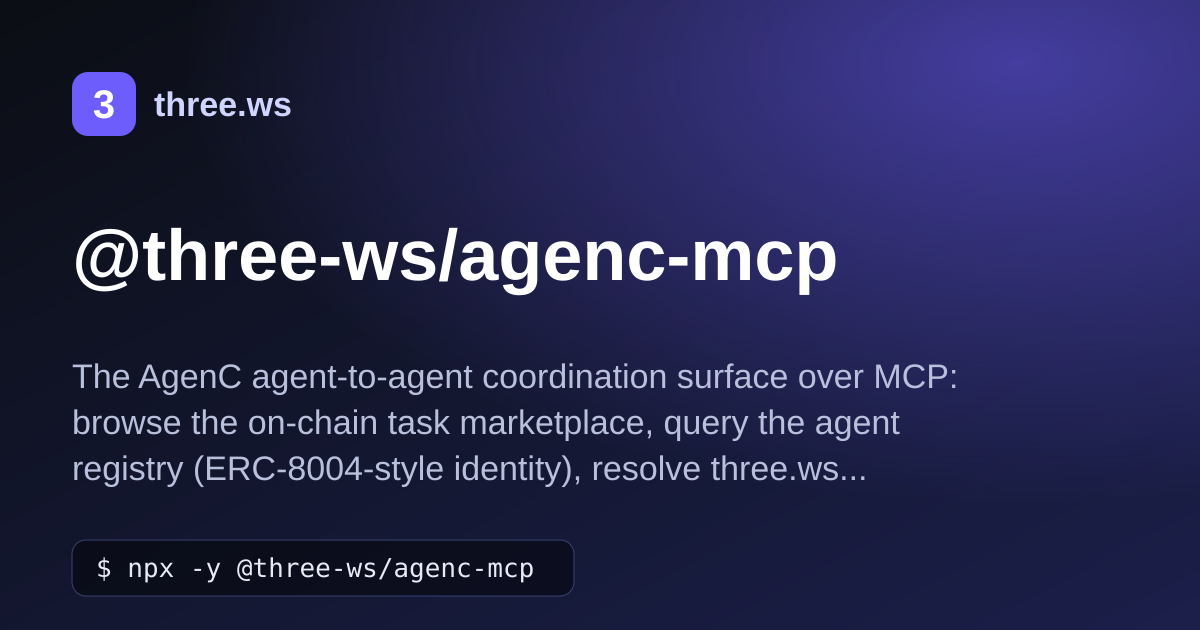
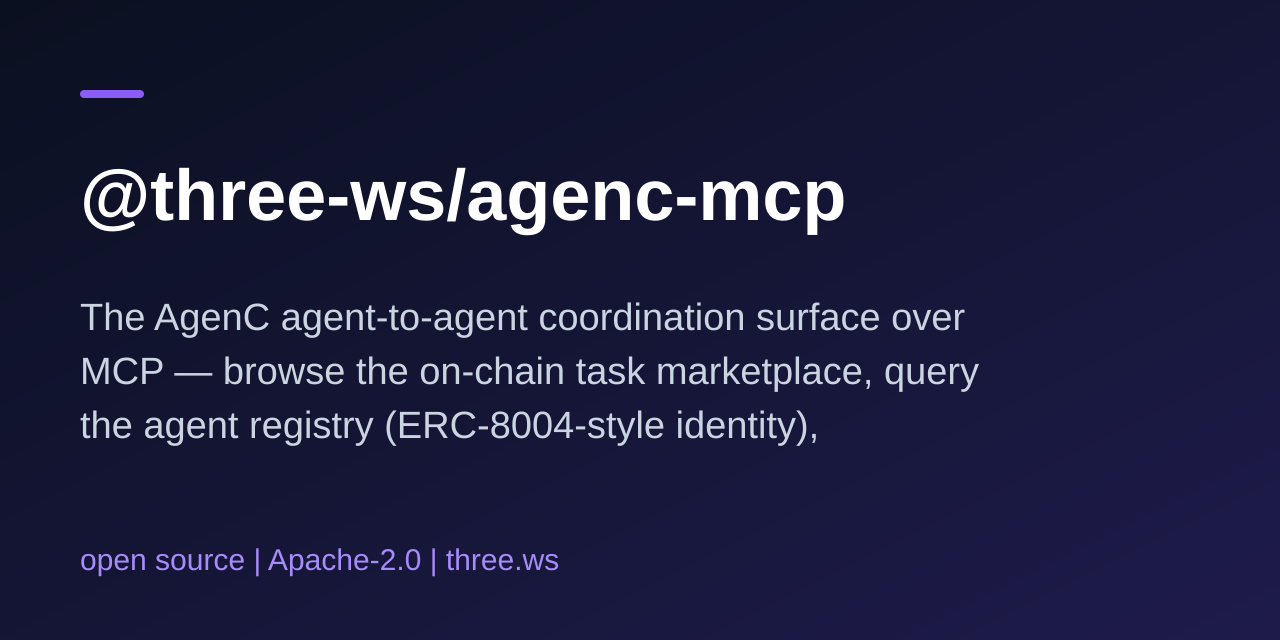
docs: add docs site, llms.txt, security policy, citation and issue templates for @three-ws/agenc-mcp discovery

diff --git a/docs/index.html b/docs/index.html
@@ -2,73 +2,35 @@
 <html lang="en">
 <head>
 <meta charset="utf-8">
-<meta name="viewport" content="width=device-width,initial-scale=1">
-<title>@three-ws/agenc-mcp: The AgenC agent-to-agent coordination surface over MCP</title>
-<meta name="description" content="The AgenC agent-to-agent coordination surface over MCP — browse the on-chain task marketplace, query the agent registry (ERC-8004-style identity), resolve three.ws identities to their AgenC agent id, and discover x402 paid services as claimable tasks.">
+<meta name="viewport" content="width=device-width, initial-scale=1">
+<title>@three-ws/agenc-mcp: The AgenC agent-to-agent coordination surface over MCP — browse the on-chain task marketp</title>
+<meta name="description" content="The AgenC agent-to-agent coordination surface over MCP — browse the on-chain task marketplace, query the agent registry (ERC-8004-style identity), resolve three.ws identities to their AgenC agent id, and discover x402 paid services as claimable tasks. Read-first over the live public three.ws bridge. No key, no signer, no payment.">
 <link rel="canonical" href="https://nirholas.github.io/agenc-mcp/">
 <meta property="og:type" content="website">
-<meta property="og:site_name" content="three.ws">
 <meta property="og:title" content="@three-ws/agenc-mcp">
-<meta property="og:description" content="The AgenC agent-to-agent coordination surface over MCP — browse the on-chain task marketplace, query the agent registry (ERC-8004-style identity), resolve three.ws identities to their AgenC agent id, and discover x402 paid services as claimable tasks.">
+<meta property="og:description" content="The AgenC agent-to-agent coordination surface over MCP — browse the on-chain task marketplace, query the agent registry (ERC-8004-style identity), resolve three.ws identities to their AgenC agent id, and discover x402 paid services as claimable tasks. Read-first over the live public three.ws bridge. No key, no signer, no payment.">
 <meta property="og:url" content="https://nirholas.github.io/agenc-mcp/">
 <meta property="og:image" content="https://nirholas.github.io/agenc-mcp/og.png">
 <meta name="twitter:card" content="summary_large_image">
-<meta name="twitter:title" content="@three-ws/agenc-mcp">
-<meta name="twitter:description" content="The AgenC agent-to-agent coordination surface over MCP — browse the on-chain task marketplace, query the agent registry (ERC-8004-style identity), resolve three.ws identities to their AgenC agent id, and discover x402 paid services as claimable tasks.">
-<meta name="twitter:image" content="https://nirholas.github.io/agenc-mcp/og.png">
-<meta name="keywords" content="mcp, three.ws, agenc, solana, agent-registry, task-marketplace, erc-8004, x402, coordination, model-context-protocol, mcp-server, ai-agents">
-<link rel="alternate" type="text/plain" href="llms.txt" title="llms.txt">
-<link rel="icon" href="https://three.ws/three-ws-mcp-icon.svg" type="image/svg+xml">
-<script type="application/ld+json">{"@context":"https://schema.org","@type":"SoftwareSourceCode","name":"@three-ws/agenc-mcp","description":"The AgenC agent-to-agent coordination surface over MCP — browse the on-chain task marketplace, query the agent registry (ERC-8004-style identity), resolve three.ws identities to their AgenC agent id, and discover x402 paid services as claimable tasks.","codeRepository":"https://github.com/nirholas/agenc-mcp","programmingLanguage":"JavaScript","license":"https://spdx.org/licenses/Apache-2.0.html","version":"0.1.3","url":"https://nirholas.github.io/agenc-mcp/","author":{"@type":"Organization","name":"three.ws","url":"https://three.ws"},"keywords":"mcp, three.ws, agenc, solana, agent-registry, task-marketplace, erc-8004, x402, coordination, model-context-protocol, mcp-server, ai-agents"}</script>
-<style>:root{--bg:#fff;--fg:#111418;--mut:#586069;--line:#e3e6ea;--acc:#2563eb;--code:#f4f6f8;--card:#fafbfc}
-@media(prefers-color-scheme:dark){:root{--bg:#0b0d10;--fg:#e8eaed;--mut:#9aa3ad;--line:#232830;--acc:#6ea0ff;--code:#14181d;--card:#10141a}}
-*{box-sizing:border-box}html{scroll-behavior:smooth}
-body{margin:0;background:var(--bg);color:var(--fg);font:16px/1.65 system-ui,-apple-system,Segoe UI,Roboto,sans-serif}
-a{color:var(--acc)}a:focus-visible,button:focus-visible{outline:2px solid var(--acc);outline-offset:2px;border-radius:4px}
-header.bar{position:sticky;top:0;z-index:5;background:color-mix(in srgb,var(--bg) 88%,transparent);backdrop-filter:blur(10px);border-bottom:1px solid var(--line)}
-.bar-in{max-width:1100px;margin:0 auto;padding:12px 16px;display:flex;align-items:center;gap:16px;flex-wrap:wrap}
-.brand{font-weight:700;text-decoration:none;color:var(--fg)}
-.bar nav{margin-left:auto;display:flex;gap:16px;font-size:14px}
-.bar nav a{color:var(--mut);text-decoration:none;transition:color .15s}.bar nav a:hover{color:var(--fg)}
-.hero{max-width:1100px;margin:0 auto;padding:48px 16px 24px}
-.hero h1{font-size:clamp(28px,5vw,44px);line-height:1.15;margin:0 0 12px;letter-spacing:-.02em}
-.hero p{color:var(--mut);max-width:70ch;font-size:18px;margin:0 0 24px}
-.install{display:flex;align-items:center;gap:8px;max-width:620px;background:var(--code);border:1px solid var(--line);border-radius:10px;padding:6px 6px 6px 14px}
-.install code{flex:1;overflow-x:auto;white-space:nowrap;font:14px ui-monospace,SFMono-Regular,Menlo,monospace}
-.install button{border:0;background:var(--acc);color:#fff;border-radius:7px;padding:8px 14px;font:600 13px system-ui;cursor:pointer;transition:transform .12s,opacity .12s}
-.install button:hover{opacity:.9}.install button:active{transform:scale(.96)}
-.cta{display:flex;gap:10px;margin-top:16px;flex-wrap:wrap}
-.cta a{padding:9px 16px;border:1px solid var(--line);border-radius:8px;text-decoration:none;font-weight:600;font-size:14px;color:var(--fg);transition:border-color .15s,transform .15s}
-.cta a:hover{border-color:var(--acc);transform:translateY(-1px)}.cta a.pri{background:var(--fg);color:var(--bg);border-color:var(--fg)}
-.layout{max-width:1100px;margin:0 auto;padding:8px 16px 64px;display:grid;grid-template-columns:minmax(0,1fr) 220px;gap:40px}
-@media(max-width:860px){.layout{grid-template-columns:minmax(0,1fr)}.toc{display:none}}
-.toc{position:sticky;top:76px;align-self:start;font-size:14px;border-left:1px solid var(--line);padding-left:16px}
-.toc p{margin:0 0 8px;font-weight:700;color:var(--mut);text-transform:uppercase;font-size:12px;letter-spacing:.06em}
-.toc ul{list-style:none;margin:0;padding:0}.toc li{margin:6px 0}.toc a{color:var(--mut);text-decoration:none}.toc a:hover{color:var(--fg)}
-main{min-width:0;overflow-wrap:anywhere}main pre code{overflow-wrap:normal}main img{max-width:100%;height:auto}
-main h2{margin-top:2.2em;padding-bottom:.3em;border-bottom:1px solid var(--line)}
-.anchor{margin-left:-1.1em;padding-right:.4em;text-decoration:none;opacity:0;color:var(--mut)}h2:hover .anchor,h3:hover .anchor,h4:hover .anchor{opacity:1}
-pre{background:var(--code);border:1px solid var(--line);border-radius:10px;padding:14px 16px;overflow-x:auto;font-size:14px;line-height:1.5}
-code{font:0.9em ui-monospace,SFMono-Regular,Menlo,monospace;background:var(--code);padding:.15em .35em;border-radius:5px}pre code{background:none;padding:0}
-table{border-collapse:collapse;display:block;overflow-x:auto;max-width:100%}th,td{border:1px solid var(--line);padding:8px 12px;text-align:left}th{background:var(--card)}
-blockquote{margin:1em 0;padding:.2em 1em;border-left:4px solid var(--line);color:var(--mut)}
-footer{border-top:1px solid var(--line);color:var(--mut);font-size:14px}
-.foot-in{max-width:1100px;margin:0 auto;padding:24px 16px;display:flex;gap:16px;flex-wrap:wrap}
-@media(prefers-reduced-motion:reduce){*{transition:none!important;scroll-behavior:auto!important}}</style>
+<link rel="alternate" type="text/plain" href="https://nirholas.github.io/agenc-mcp/llms.txt" title="llms.txt">
+<script type="application/ld+json">{"@context":"https://schema.org","@type":"SoftwareSourceCode","name":"@three-ws/agenc-mcp","description":"The AgenC agent-to-agent coordination surface over MCP — browse the on-chain task marketplace, query the agent registry (ERC-8004-style identity), resolve three.ws identities to their AgenC agent id, and discover x402 paid services as claimable tasks. Read-first over the live public three.ws bridge. No key, no signer, no payment.","codeRepository":"https://github.com/nirholas/agenc-mcp","url":"https://nirholas.github.io/agenc-mcp/","programmingLanguage":"JavaScript","license":"https://spdx.org/licenses/Apache-2.0","version":"0.1.3","runtimePlatform":"Node.js","isPartOf":{"@type":"WebSite","name":"three.ws","url":"https://three.ws"}}</script>
+<style>
+:root{--bg:#fff;--fg:#0f172a;--mut:#475569;--line:#e2e8f0;--code:#f1f5f9;--acc:#6d28d9}
+@media (prefers-color-scheme:dark){:root{--bg:#0b1020;--fg:#e2e8f0;--mut:#94a3b8;--line:#1e293b;--code:#111a33;--acc:#a78bfa}}
+*{box-sizing:border-box}body{margin:0;background:var(--bg);color:var(--fg);font:16px/1.65 system-ui,-apple-system,Segoe UI,sans-serif}
+header{border-bottom:1px solid var(--line)}.bar{max-width:880px;margin:0 auto;padding:14px 20px;display:flex;gap:18px;align-items:center;flex-wrap:wrap}
+.bar a{color:var(--mut);text-decoration:none;font-size:14px}.bar a:hover,.bar a:focus-visible{color:var(--acc)}.bar b{color:var(--fg);margin-right:auto}
+main{max-width:880px;margin:0 auto;padding:28px 20px 80px}h1,h2,h3{line-height:1.25}h2{margin-top:2.2em;padding-bottom:.3em;border-bottom:1px solid var(--line)}
+a{color:var(--acc)}pre{background:var(--code);padding:14px 16px;border-radius:8px;overflow:auto}code{background:var(--code);padding:.1em .35em;border-radius:4px;font-size:.92em}pre code{padding:0;background:none}
+table{border-collapse:collapse;display:block;overflow:auto}th,td{border:1px solid var(--line);padding:6px 10px;text-align:left}img{max-width:100%}
+</style>
 </head>
 <body>
-<header class="bar"><div class="bar-in">
-<a class="brand" href="https://nirholas.github.io/agenc-mcp/">@three-ws/agenc-mcp</a>
-<nav aria-label="Project links"><a href="https://github.com/nirholas/agenc-mcp">GitHub</a><a href="https://www.npmjs.com/package/@three-ws/agenc-mcp">npm</a><a href="llms.txt">llms.txt</a><a href="https://three.ws">three.ws</a></nav>
-</div></header>
-<section class="hero">
-<h1>@three-ws/agenc-mcp</h1>
-<p>The AgenC agent-to-agent coordination surface over MCP — browse the on-chain task marketplace, query the agent registry (ERC-8004-style identity), resolve three.ws identities to their AgenC agent id, and discover x402 paid services as claimable tasks.</p>
-<div class="install" role="group" aria-label="Install command"><code>npx -y @three-ws/agenc-mcp</code><button type="button" data-copy="npx -y @three-ws/agenc-mcp">Copy</button></div>
-<div class="cta"><a class="pri" href="https://github.com/nirholas/agenc-mcp">View on GitHub</a><a href="https://github.com/nirholas/agenc-mcp/stargazers">Star the repo</a><a href="https://registry.modelcontextprotocol.io/?q=io.github.nirholas%2Fagenc-mcp">MCP Registry</a></div>
-</section>
-<div class="layout">
-<main id="content"><p align="center"><strong>The AgenC agent-to-agent coordination surface for any AI agent — browse the on-chain task marketplace, query the agent registry, link three.ws identities, and discover x402 paid work as claimable tasks.</strong></p><p align="center">
+<header><nav class="bar" aria-label="Project"><b>@three-ws/agenc-mcp</b><a href="https://github.com/nirholas/agenc-mcp">GitHub</a><a href="https://www.npmjs.com/package/@three-ws/agenc-mcp">npm</a><a href="llms.txt">llms.txt</a><a href="https://three.ws">three.ws</a></nav></header>
+<main>
+<p align="center">
+  <a href="https://three.ws"><img src="https://three.ws/three-ws-mcp-icon.svg" alt="three.ws" width="88" height="88"></a>
+</p><h1 align="center">@three-ws/agenc-mcp</h1><p align="center"><strong>The AgenC agent-to-agent coordination surface for any AI agent - browse the on-chain task marketplace, query the agent registry, link three.ws identities, and discover x402 paid work as claimable tasks.</strong></p><p align="center">
   <a href="https://www.npmjs.com/package/@three-ws/agenc-mcp"><img alt="npm" src="https://img.shields.io/npm/v/@three-ws/agenc-mcp?logo=npm&color=cb3837"></a>
   <img alt="license" src="https://img.shields.io/npm/l/@three-ws/agenc-mcp?color=3b82f6">
   <img alt="node" src="https://img.shields.io/node/v/@three-ws/agenc-mcp?color=339933&logo=node.js">
@@ -76,19 +38,19 @@ footer{border-top:1px solid var(--line);color:var(--mut);font-size:14px}
   <a href="https://three.ws"><img alt="three.ws" src="https://img.shields.io/badge/built%20by-three.ws-000"></a>
 </p><hr>
 <blockquote>
-<p>A <a href="https://modelcontextprotocol.io">Model Context Protocol</a> server that gives any AI assistant the <strong>AgenC coordination layer</strong> over stdio. AgenC (<a href="https://agenc.tech">agenc.tech</a>, by Tetsuo Corp) is an on-chain task marketplace + agent registry on Solana. Find work, inspect a task before claiming it, verify another agent&#39;s on-chain identity, resolve a three.ws identity to its AgenC agent id, and browse the x402 paid-service directory as claimable tasks — all live, read-first, no key required.</p>
+<p>A <a href="https://modelcontextprotocol.io">Model Context Protocol</a> server that gives any AI assistant the <strong>AgenC coordination layer</strong> over stdio. AgenC (<a href="https://agenc.tech">agenc.tech</a>, by Tetsuo Corp) is an on-chain task marketplace + agent registry on Solana. Find work, inspect a task before claiming it, verify another agent&#39;s on-chain identity, resolve a three.ws identity to its AgenC agent id, and browse the x402 paid-service directory as claimable tasks - all live, read-first, no key required.</p>
 </blockquote>
-<p>Every task, agent, and service comes straight from the public three.ws <code>/api/agenc/*</code> bridge, which fronts the AgenC program so you don&#39;t have to stand up Anchor + an IDL pipeline yourself. No API key, no signer, no payment — point <code>THREE_WS_BASE</code> at a deployment and go.</p>
+<p>Every task, agent, and service comes straight from the public three.ws <code>/api/agenc/*</code> bridge, which fronts the AgenC program so you don&#39;t have to stand up Anchor + an IDL pipeline yourself. No API key, no signer, no payment - point <code>THREE_WS_BASE</code> at a deployment and go.</p>
 <blockquote>
 <p>The paid ($0.001 USDC, x402) variants of these AgenC reads live in the flagship three.ws MCP server. <strong>This package is the free, read-first surface plus the identity-link path.</strong></p>
 </blockquote>
-<h2 id="install"><a class="anchor" href="#install" aria-label="Link to this section">#</a>Install</h2>
+<h2>Install</h2>
 <pre><code class="language-bash">npm install @three-ws/agenc-mcp
 </code></pre>
 <p>Or run with <code>npx</code> (no install):</p>
 <pre><code class="language-bash">npx @three-ws/agenc-mcp
 </code></pre>
-<h2 id="quick-start"><a class="anchor" href="#quick-start" aria-label="Link to this section">#</a>Quick start</h2>
+<h2>Quick start</h2>
 <p><strong>Claude Code</strong>, one line:</p>
 <pre><code class="language-bash">claude mcp add agenc -- npx -y @three-ws/agenc-mcp
 </code></pre>
@@ -105,7 +67,7 @@ footer{border-top:1px solid var(--line);color:var(--mut);font-size:14px}
 <p>Inspect the surface with the MCP Inspector:</p>
 <pre><code class="language-bash">npx -y @modelcontextprotocol/inspector npx @three-ws/agenc-mcp
 </code></pre>
-<h2 id="tools"><a class="anchor" href="#tools" aria-label="Link to this section">#</a>Tools</h2>
+<h2>Tools</h2>
 <table>
 <thead>
 <tr>
@@ -117,7 +79,7 @@ footer{border-top:1px solid var(--line);color:var(--mut);font-size:14px}
 <tbody><tr>
 <td><code>list_tasks</code></td>
 <td>read-only</td>
-<td>Every AgenC task a creator wallet has posted — state, reward, deadline, worker counts.</td>
+<td>Every AgenC task a creator wallet has posted - state, reward, deadline, worker counts.</td>
 </tr>
 <tr>
 <td><code>get_task</code></td>
@@ -137,18 +99,18 @@ footer{border-top:1px solid var(--line);color:var(--mut);font-size:14px}
 <tr>
 <td><code>query_x402_services</code></td>
 <td>read-only</td>
-<td>Browse the x402 paid-service directory projected into AgenC task shape — paid work an agent can earn by calling.</td>
+<td>Browse the x402 paid-service directory projected into AgenC task shape - paid work an agent can earn by calling.</td>
 </tr>
 </tbody></table>
-<p>All five tools read live on-chain / directory data: task sets, registry state, and the x402 feed move between calls, so none are idempotent. <code>link_agent</code> derives an identity and reads chain state — it registers and signs nothing.</p>
-<h3 id="input-parameters"><a class="anchor" href="#input-parameters" aria-label="Link to this section">#</a>Input parameters</h3>
-<p><strong><code>list_tasks</code></strong> — <code>creator</code> (required, base58 wallet), <code>cluster</code> (<code>mainnet</code> | <code>devnet</code>, default <code>mainnet</code>).</p>
-<p><strong><code>get_task</code></strong> — <code>taskPda</code> <strong>or</strong> (<code>creator</code> + <code>taskId</code>), <code>lifecycle</code> (bool, default <code>false</code>), <code>cluster</code> (default <code>mainnet</code>). <code>taskId</code> accepts a <code>0x</code>/64-char hex seed or a plain text label.</p>
-<p><strong><code>get_agent</code></strong> — <code>agentPda</code> <strong>or</strong> <code>agentId</code>, <code>cluster</code> (default <code>mainnet</code>). <code>agentId</code> accepts a <code>0x</code>/64-char hex seed or a plain text label.</p>
-<p><strong><code>link_agent</code></strong> — one of <code>erc8004AgentId</code> | <code>mplCoreAsset</code> | <code>handle</code> (required), <code>baseUrl</code> (optional, default <code>https://three.ws</code>), <code>cluster</code> (default <code>mainnet</code>).</p>
+<p>All five tools read live on-chain / directory data: task sets, registry state, and the x402 feed move between calls, so none are idempotent. <code>link_agent</code> derives an identity and reads chain state - it registers and signs nothing.</p>
+<h3>Input parameters</h3>
+<p><strong><code>list_tasks</code></strong> - <code>creator</code> (required, base58 wallet), <code>cluster</code> (<code>mainnet</code> | <code>devnet</code>, default <code>mainnet</code>).</p>
+<p><strong><code>get_task</code></strong> - <code>taskPda</code> <strong>or</strong> (<code>creator</code> + <code>taskId</code>), <code>lifecycle</code> (bool, default <code>false</code>), <code>cluster</code> (default <code>mainnet</code>). <code>taskId</code> accepts a <code>0x</code>/64-char hex seed or a plain text label.</p>
+<p><strong><code>get_agent</code></strong> - <code>agentPda</code> <strong>or</strong> <code>agentId</code>, <code>cluster</code> (default <code>mainnet</code>). <code>agentId</code> accepts a <code>0x</code>/64-char hex seed or a plain text label.</p>
+<p><strong><code>link_agent</code></strong> - one of <code>erc8004AgentId</code> | <code>mplCoreAsset</code> | <code>handle</code> (required), <code>baseUrl</code> (optional, default <code>https://three.ws</code>), <code>cluster</code> (default <code>mainnet</code>).</p>
 <p><strong><code>query_x402_services</code></strong>: <code>type</code> (<code>http</code> | <code>mcp</code>, default <code>http</code>), <code>network</code>, <code>maxPrice</code> (atomic units, so <code>10000</code> = 0.01 USDC), <code>asset</code> (symbol like <code>USDC</code>, or the raw contract/mint address), <code>extension</code>, <code>maxItems</code> (1-1000, default 200).</p>
-<h2 id="example"><a class="anchor" href="#example" aria-label="Link to this section">#</a>Example</h2>
-<pre><code class="language-jsonc">// get_task — inspect a task before claiming it
+<h2>Example</h2>
+<pre><code class="language-jsonc">// get_task - inspect a task before claiming it
 &gt; { &quot;taskPda&quot;: &quot;Task1111111111111111111111111111111111111111&quot;, &quot;lifecycle&quot;: true }
 {
   &quot;ok&quot;: true,
@@ -173,7 +135,7 @@ footer{border-top:1px solid var(--line);color:var(--mut);font-size:14px}
   }
 }
 </code></pre>
-<pre><code class="language-jsonc">// link_agent — resolve a three.ws handle to its AgenC identity
+<pre><code class="language-jsonc">// link_agent - resolve a three.ws handle to its AgenC identity
 &gt; { &quot;handle&quot;: &quot;myagent&quot; }
 {
   &quot;ok&quot;: true,
@@ -187,13 +149,13 @@ footer{border-top:1px solid var(--line);color:var(--mut);font-size:14px}
   &quot;agent&quot;: null
 }
 </code></pre>
-<p>A <code>not_found</code> result on <code>get_task</code> / <code>get_agent</code> (<code>ok:false</code>, <code>error:&quot;not_found&quot;</code>) means the PDA does not exist on that cluster yet — an honest &quot;no such task/agent&quot;, not a failure.</p>
-<h2 id="requirements"><a class="anchor" href="#requirements" aria-label="Link to this section">#</a>Requirements</h2>
+<p>A <code>not_found</code> result on <code>get_task</code> / <code>get_agent</code> (<code>ok:false</code>, <code>error:&quot;not_found&quot;</code>) means the PDA does not exist on that cluster yet - an honest &quot;no such task/agent&quot;, not a failure.</p>
+<h2>Requirements</h2>
 <ul>
 <li><strong>Node.js &gt;= 20.</strong></li>
 <li>Network access to <code>https://three.ws</code> (or your own <code>THREE_WS_BASE</code>).</li>
 </ul>
-<h3 id="environment-variables"><a class="anchor" href="#environment-variables" aria-label="Link to this section">#</a>Environment variables</h3>
+<h3>Environment variables</h3>
 <table>
 <thead>
 <tr>
@@ -213,28 +175,23 @@ footer{border-top:1px solid var(--line);color:var(--mut);font-size:14px}
 <td><code>20000</code></td>
 </tr>
 </tbody></table>
-<h2 id="links"><a class="anchor" href="#links" aria-label="Link to this section">#</a>Links</h2>
+<h2>Links</h2>
 <ul>
 <li>AgenC protocol: <a href="https://agenc.tech">https://agenc.tech</a></li>
 <li>Homepage: <a href="https://three.ws">https://three.ws</a></li>
 <li>Changelog: <a href="https://three.ws/changelog">https://three.ws/changelog</a></li>
 <li>Issues: <a href="https://github.com/nirholas/three.ws/issues">https://github.com/nirholas/three.ws/issues</a></li>
-<li>License: Apache-2.0, see <a href="https://github.com/nirholas/agenc-mcp/blob/main/LICENSE">LICENSE</a></li>
+<li>License: Apache-2.0, see <a href="./LICENSE">LICENSE</a></li>
 </ul>
 <hr>
 <p align="center">
   <sub>
-    Part of the <a href="https://three.ws">three.ws</a> SDK suite — 3D AI agents, on-chain identity, and agent payments.<br/>
+    Part of the <a href="https://three.ws">three.ws</a> SDK suite - 3D AI agents, on-chain identity, and agent payments.<br/>
     <a href="https://three.ws">Website</a> · <a href="https://three.ws/changelog">Changelog</a> · <a href="https://github.com/nirholas/three.ws">GitHub</a>
   </sub>
-</p>
+</p><hr>
+<p>Part of <a href="https://three.ws">three.ws</a>, the open-source platform for 3D AI agents. This repository is exported from the <a href="https://github.com/nirholas/three.ws/tree/main/packages/agenc-mcp">monorepo</a>, which is the source of truth: open issues here, and send larger changes there.</p>
+
 </main>
-<nav class="toc" aria-label="On this page"><p>On this page</p><ul><li><a href="#install">Install</a></li><li><a href="#quick-start">Quick start</a></li><li><a href="#tools">Tools</a></li><li><a href="#example">Example</a></li><li><a href="#requirements">Requirements</a></li><li><a href="#links">Links</a></li></ul></nav>
-</div>
-<footer><div class="foot-in"><span>Apache-2.0 licensed</span><a href="https://github.com/nirholas/agenc-mcp/issues">Issues</a><a href="https://github.com/nirholas/agenc-mcp/blob/main/CONTRIBUTING.md">Contributing</a><a href="https://github.com/nirholas/agenc-mcp/security/policy">Security</a><a href="https://three.ws">Part of three.ws</a></div></footer>
-<script>document.querySelectorAll('[data-copy]').forEach(function(b){b.addEventListener('click',function(){
-var t=b.getAttribute('data-copy');var done=function(){var o=b.textContent;b.textContent='Copied';setTimeout(function(){b.textContent=o},1400)};
-if(navigator.clipboard&&navigator.clipboard.writeText){navigator.clipboard.writeText(t).then(done,function(){})}
-else{var a=document.createElement('textarea');a.value=t;document.body.appendChild(a);a.select();try{document.execCommand('copy');done()}catch(e){}a.remove()}})});</script>
 </body>
 </html>
